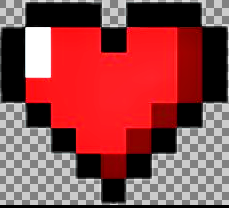
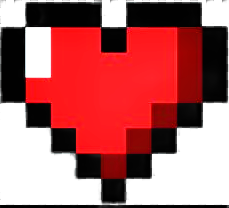
moved the lives to the left of the score and reduced the size of the lives hearts as the lives weared down. this keeps the menu node around the same size

diff --git a/src/main/java/gui/Menu.java b/src/main/java/gui/Menu.java
@@ -27,22 +27,18 @@ public class Menu {
         HBox menu = new HBox();
 
         Label scoreText = new Label("Score:" + String.valueOf(score) );
-        Label livesText = new Label("Current lives: " + String.valueOf(MazeState.getLives()));
         ImageView livesImage = new ImageView( new Image("heart3.png",scale*size , scale * size, true, true));
         
         HBox scoreHb = new HBox();
         HBox livesHb = new HBox();
         scoreHb.getChildren().addAll(scoreText);
         livesHb.getChildren().addAll(livesImage);
-        menu.getChildren().addAll(scoreHb, livesHb);
+        menu.getChildren().addAll(livesHb, scoreHb);
         
         menu.setSpacing(20);
-        livesText.setTextFill(Color.rgb(154, 155, 155));
-
-        // Failed attempt to make the score text white
-        // scoreText.setTextFill(Paint.valueOf("#000"));
-        // hb.setStyle("#FFF");
-        
+        // centers the values to the top center of the screen.
+        menu.setTranslateX(pos.x()/2);
+        menu.setTranslateY(pos.y());
 
         return new GraphicsUpdater() {
             @Override
@@ -55,16 +51,17 @@ public class Menu {
                // Label livesText = new Label("Lives : " + String.valueOf(MazeState.getLives()));
                
                 Label scoreText = new Label("Score : " + String.valueOf(MazeState.getScore()));
-                ImageView livesImage = new ImageView( new Image(("heart" + String.valueOf(MazeState.getLives()) + ".png"),scale*size , scale * size, true, true));
+
+                // la division de la taille reduit la taille de l'image progressivement pour que elle prend pas tous l'ecran.
+                ImageView livesImage = new ImageView( new Image(("heart" + String.valueOf(MazeState.getLives()) + ".png"),scale*(size)/(4 - MazeState.getLives()) , scale * size/1, true, true));
                 
                 // livesText.setStyle("-fx-text-fill: white; -fx-font-size: 16px;");
-                scoreText.setStyle("-fx-text-fill: white; -fx-font-size: 16px;");
+                scoreText.setStyle("-fx-text-fill: white; -fx-font-size: 12px;");
 
                 scoreHb.getChildren().add(scoreText);
                 livesHb.getChildren().add(livesImage);
                 
-                scoreHb.setAlignment(Pos.BOTTOM_RIGHT);
-                livesHb.setAlignment(Pos.BOTTOM_LEFT);
+                
 
 
             }

diff --git a/src/main/java/gui/App.java b/src/main/java/gui/App.java
@@ -17,7 +17,7 @@ public class App extends Application {
         gameScene.setOnKeyPressed(pacmanController::keyPressedHandler);
         gameScene.setOnKeyReleased(pacmanController::keyReleasedHandler);
         var maze = new MazeState(MazeConfig.mazeFromFile());
-        var gameView = new GameView(maze, root, 100.0);
+        var gameView = new GameView(maze, root, 125.0);
         primaryStage.setScene(gameScene);
         primaryStage.show();
         gameView.animate();
